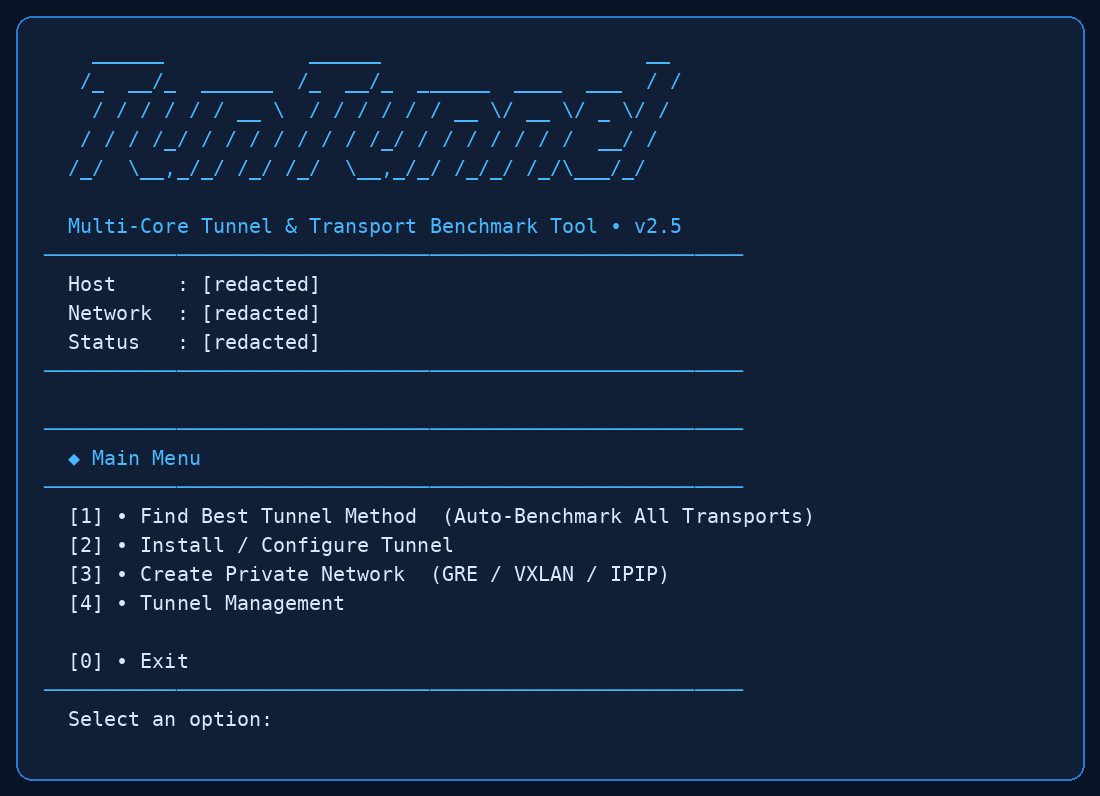
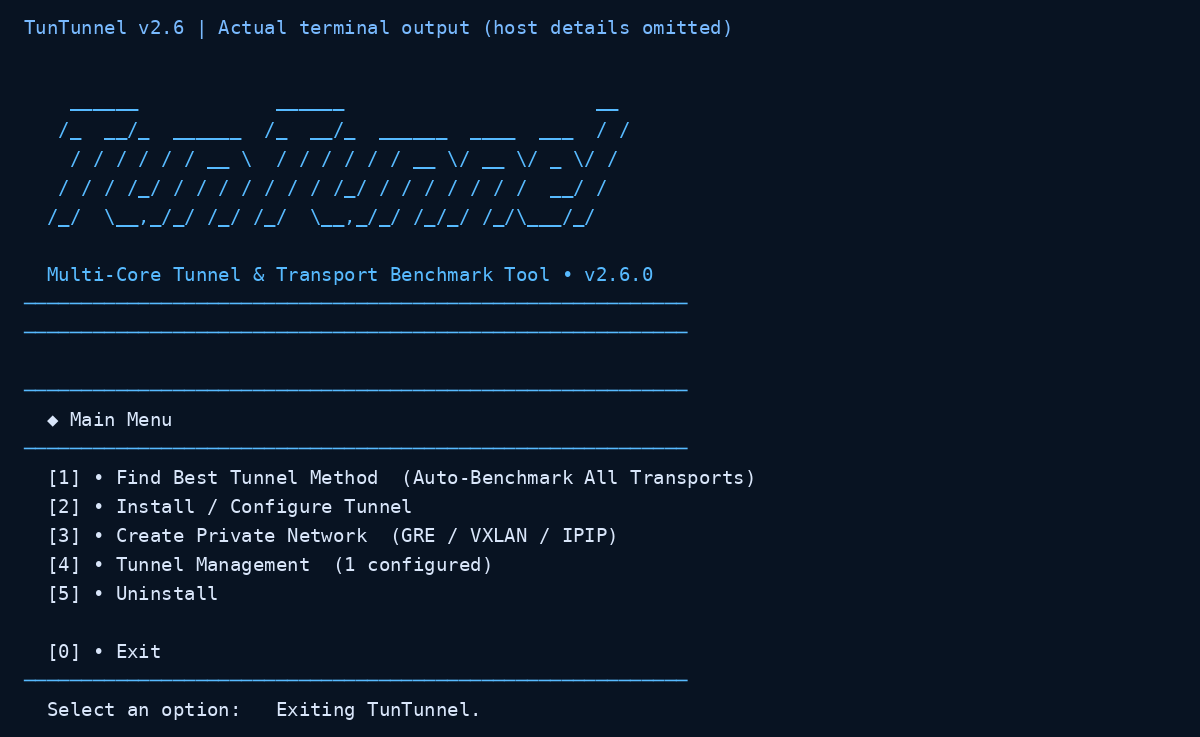
Add confirmed uninstall, managed network menu and Linux release build

diff --git a/test_uninstall.py b/test_uninstall.py
@@ -1,0 +1,71 @@
+"""Run: python3 test_uninstall.py. All paths and service calls are sandboxed."""
+import contextlib
+import io
+from pathlib import Path
+import subprocess
+import tarfile
+import tempfile
+
+source = Path(__file__).with_name('tunnel-extra.sh').read_text()
+body = source.split("<<'__TUNNEL_EXTRA_PY__'\n", 1)[1].rsplit('\n__TUNNEL_EXTRA_PY__', 1)[0]
+for answer, failure in [('no', ''), ('UNINSTALL', 'backup'), ('UNINSTALL', 'service'), ('UNINSTALL', '')]:
+    ns = {'__name__': 'test'}
+    exec(compile(body, 'tunnel-extra.sh', 'exec'), ns)
+    with tempfile.TemporaryDirectory() as temp, contextlib.redirect_stdout(io.StringIO()):
+        base = Path(temp)
+        sandbox = lambda p: base / str(p).lstrip('/')
+        ns.update(ROOT=sandbox('/etc/tunnel-extra'), BIN=sandbox('/opt/tunnel-extra/bin'),
+                  SELF=sandbox('/usr/local/lib/tunnel-extra/tunnel-extra.sh'), UNITS=sandbox('/etc/systemd/system'))
+        ns['Path'] = sandbox
+        ns['root_required'] = lambda: None
+        ns['prompt'] = lambda *a: answer
+        data = {'name': 'test', 'carrier': 'gre'}
+        ns['all_tunnels'] = lambda: [data]
+        ns['saved_networks'] = lambda: [data]
+        ns['device'] = lambda d: 'te-test'
+        for p in [ns['ROOT'], ns['BIN'], ns['SELF'].parent, ns['UNITS'], sandbox('/usr/local/bin')]:
+            p.mkdir(parents=True, exist_ok=True)
+        ns['SELF'].write_text('source')
+        ns['ROOT'].joinpath('config.json').write_text('private')
+        units = [ns['UNITS'] / 'tunnel-extra-test.service', ns['UNITS'] / 'tunnel-extra-refresh.timer']
+        for u in units:
+            u.write_text('owned')
+        unrelated = ns['UNITS'] / 'unrelated.service'
+        unrelated.write_text('preserve')
+        shared = sandbox('/usr/local/bin/sing-box')
+        shared.write_text('shared')
+        alias = sandbox('/usr/local/bin/tuntunnel')
+        alias.symlink_to(ns['SELF'])
+        calls = []
+        def run(argv, **kwargs):
+            calls.append(argv)
+            if failure == 'service' and argv[0] == 'systemctl':
+                raise RuntimeError('stop failed')
+            return subprocess.CompletedProcess(argv, 0)
+        ns['run'] = run
+        if failure == 'backup':
+            original_open = ns['tarfile'].open
+            ns['tarfile'].open = lambda *a, **k: (_ for _ in ()).throw(OSError('backup failed'))
+        try:
+            result = ns['uninstall']()
+            assert not failure
+        except (OSError, RuntimeError):
+            assert failure
+        finally:
+            if failure == 'backup':
+                ns['tarfile'].open = original_open
+        assert unrelated.exists() and shared.exists()
+        if answer != 'UNINSTALL' or failure:
+            assert ns['ROOT'].exists() and alias.is_symlink() and all(u.exists() for u in units)
+            if failure != 'service':
+                assert not calls
+        else:
+            assert result and not ns['ROOT'].exists() and not ns['BIN'].parent.exists()
+            assert not ns['SELF'].exists() and not alias.is_symlink()
+            assert not any(u.exists() for u in units)
+            backups = list(sandbox('/var/backups/tuntunnel').glob('*.tar.gz'))
+            assert len(backups) == 1 and backups[0].stat().st_mode & 0o777 == 0o600
+            with tarfile.open(backups[0]) as archive:
+                assert any(m.name.endswith('config.json') for m in archive.getmembers())
+print('PASS: uninstall cancel, backup failure, service failure, confirmed cleanup; shared files preserved')
+

diff --git a/test_networks.py b/test_networks.py
@@ -1,0 +1,77 @@
+"""Run: python3 test_networks.py (no real interfaces or services changed)."""
+import contextlib
+import io
+import json
+from pathlib import Path
+import subprocess
+import tempfile
+from unittest.mock import patch
+
+source = Path(__file__).with_name('tunnel-extra.sh').read_text()
+python = source.split("<<'__TUNNEL_EXTRA_PY__'\n", 1)[1].rsplit('\n__TUNNEL_EXTRA_PY__', 1)[0]
+ns = {'__name__': 'tuntunnel_test'}
+exec(compile(python, 'tunnel-extra.sh', 'exec'), ns)
+
+with tempfile.TemporaryDirectory() as temp, contextlib.redirect_stdout(io.StringIO()) as output:
+    ns['ROOT'] = Path(temp)
+    calls = []
+    present = set()
+
+    def run(args, check=True, **kwargs):
+        calls.append(args)
+        if args[:3] == ['ip', 'link', 'show']:
+            return subprocess.CompletedProcess(args, 0 if args[-1] in present else 1)
+        if args[:3] == ['ip', 'link', 'del']:
+            present.discard(args[-1])
+        return subprocess.CompletedProcess(args, 0)
+
+    def apply(data, role, up=True):
+        present.add(ns['device'](data))
+
+    ns.update(run=run, root_required=lambda: None, link_commands=lambda d, r: [], link_action=apply)
+    for carrier in ('gre', 'vxlan', 'ipip'):
+        name = 'test-' + carrier
+        answers = iter([carrier, 'iran', name, '192.0.2.1', '198.51.100.2', '10.203.88.0/30', '100'] + (['4789'] if carrier == 'vxlan' else []) + ['yes'])
+        with patch('builtins.input', side_effect=lambda _: next(answers)):
+            ns['create_network_wizard']()
+        record = Path(temp) / 'networks' / (name + '.json')
+        data = json.loads(record.read_text())
+        assert data['carrier'] == carrier and 'secret' not in data
+        assert data in ns['list_networks']()
+        # A cancelled delete must preserve both interface and record.
+        with patch('builtins.input', side_effect=[name, 'no']):
+            ns['delete_network']()
+        assert record.exists() and ns['device'](data) in present
+        # Configured tunnels must block deletion of their carrier.
+        ns['all_tunnels'] = lambda: [data]
+        with patch('builtins.input', side_effect=[name]):
+            try:
+                ns['delete_network']()
+            except RuntimeError as exc:
+                assert 'used by' in str(exc)
+            else:
+                raise AssertionError('Deleted network used by tunnel')
+        ns['all_tunnels'] = lambda: []
+        # A failed link deletion must retain tracking metadata.
+        real_run = ns['run']
+        def fail_delete(args, **kwargs):
+            if args[:3] == ['ip', 'link', 'del']:
+                raise RuntimeError('delete failed')
+            return real_run(args, **kwargs)
+        ns['run'] = fail_delete
+        with patch('builtins.input', side_effect=[name, 'yes']):
+            try:
+                ns['delete_network']()
+            except RuntimeError:
+                pass
+            else:
+                raise AssertionError('Deletion failure ignored')
+        assert record.exists()
+        ns['run'] = real_run
+        with patch('builtins.input', side_effect=[name, 'yes']):
+            ns['delete_network']()
+        assert not record.exists() and ns['device'](data) not in present
+    assert not ns['saved_networks']()
+    assert all(c[0] == 'ip' for c in calls)
+    assert 'Deletion cancelled.' in output.getvalue()
+print('PASS: GRE/VXLAN/IPIP create, list, cancel, dependency guard, failure retention, delete; no live changes')

diff --git a/build_binary.py b/build_binary.py
@@ -1,0 +1,59 @@
+"""Build Linux native launcher embedding the current Python manager; needs gcc and Python 3 at runtime."""
+from pathlib import Path
+import subprocess
+import platform
+
+if platform.system() != 'Linux' or platform.machine() != 'x86_64':
+    raise SystemExit('Build this amd64 artifact on Linux x86-64.')
+
+root = Path(__file__).resolve().parent
+script = (root / 'tunnel-extra.sh').read_text()
+body = script.split("<<'__TUNNEL_EXTRA_PY__'\n", 1)[1].rsplit('\n__TUNNEL_EXTRA_PY__', 1)[0]
+body = "import os\n__file__ = os.environ['TE_SOURCE']\n" + body
+payload = ','.join(str(b) for b in body.encode())
+build = root / 'build'
+build.mkdir(exist_ok=True)
+c = build / 'launcher.c'
+c.write_text('''#define _GNU_SOURCE
+#include <sys/mman.h>
+#include <unistd.h>
+#include <stdlib.h>
+#include <stdio.h>
+#include <limits.h>
+#include <errno.h>
+#include <fcntl.h>
+static const unsigned char script[] = {''' + payload + '''};
+int main(int argc, char **argv) {
+    char self[PATH_MAX], path[64];
+    ssize_t n = readlink("/proc/self/exe", self, sizeof(self)-1);
+    if (n < 0) { perror("readlink"); return 1; }
+    self[n] = 0;
+    if (setenv("TE_SOURCE", self, 1)) { perror("setenv"); return 1; }
+    int fd = memfd_create("tuntunnel", 0);
+    if (fd < 0) { perror("memfd_create"); return 1; }
+    int source = fcntl(fd, F_DUPFD, 4);
+    if (source < 0) { perror("fcntl"); return 1; }
+    close(fd);
+    fd = source;
+    if (dup2(STDIN_FILENO, 3) < 0) { perror("dup2"); return 1; }
+    size_t offset = 0;
+    while (offset < sizeof(script)) {
+        ssize_t written = write(fd, script + offset, sizeof(script) - offset);
+        if (written < 0 && errno == EINTR) continue;
+        if (written <= 0) { perror("write"); return 1; }
+        offset += written;
+    }
+    if (lseek(fd, 0, SEEK_SET) < 0) { perror("lseek"); return 1; }
+    snprintf(path, sizeof(path), "/proc/self/fd/%d", fd);
+    char **args = calloc(argc + 2, sizeof(char *));
+    if (!args) { perror("calloc"); return 1; }
+    args[0] = "python3";
+    args[1] = path;
+    for (int i = 1; i < argc; ++i) args[i+1] = argv[i];
+    execvp(args[0], args);
+    perror("Python 3 is required");
+    return 1;
+}
+''')
+subprocess.run(['gcc', '-Os', '-s', '-Wall', '-Wextra', '-Werror', '-o', str(build / 'tuntunnel-linux-amd64'), str(c)], check=True)
+print(build / 'tuntunnel-linux-amd64')

diff --git a/README.md b/README.md
@@ -23,10 +23,53 @@ A Linux terminal tool for configuring tunnels, private network carriers, and com
 | --- | --- |
 | Find Best Tunnel Method | Compare available tunnel transports between two servers. |
 | Install / Configure Tunnel | Create a tunnel or join using a setup link. |
-| Create Private Network | Configure GRE, VXLAN, or IPIP carrier networks. |
+| Create Private Network | Create GRE, VXLAN, or IPIP networks; list and delete networks tracked by this script. |
 | Tunnel Management | View and manage configured tunnels. |
+| Uninstall | Confirm removal of TunTunnel from this host after a verified local backup. |
+
+### Private network management (option 3)
+
+- Options 1–3 create GRE, VXLAN, or IPIP networks.
+- **List Networks** shows saved names, types, interfaces, subnets, and whether each interface is present on this host.
+- **Delete Network** asks for confirmation and removes only the selected local network. The peer host is unchanged. Networks used by configured tunnels cannot be deleted here.
+- Applied networks are tracked under `/etc/tunnel-extra/networks/`. Networks created before tracking was added are not included; unrelated interfaces are never imported automatically.
 
 ## Requirements
+
+### Uninstall (main menu option 5)
+
+Type `UNINSTALL` when prompted. This stops TunTunnel services, removes tracked local interfaces, and removes its configuration, private engine directory, launcher and command aliases. The peer host and shared engines in `/usr/local/bin` are unchanged. A private archive is verified first under `/var/backups/tuntunnel/`; it contains credentials, so keep it secure. If backup or service shutdown fails, file removal is aborted. Interfaces created before network tracking was introduced cannot be identified automatically.
+
+### Native Linux release
+
+Download `tuntunnel-linux-amd64` and `SHA256SUMS` from [Releases](https://github.com/mahdiweb3/tuntunnel/releases/latest). This is a native x86-64 Linux ELF launcher embedding the same manager. It requires **Python 3**, glibc 2.34 or newer, and the normal system tools listed below; it is not a bundled Python runtime. The embedded code runs from memory, not `/tmp`.
+
+```bash
+sha256sum --ignore-missing -c SHA256SUMS
+chmod 755 tuntunnel-linux-amd64
+./tuntunnel-linux-amd64
+```
+
+To install this binary permanently, as root:
+
+```bash
+install -d -m 755 /usr/local/lib/tunnel-extra /usr/local/bin
+install -m 755 tuntunnel-linux-amd64 /usr/local/lib/tunnel-extra/tunnel-extra.sh
+ln -sfn /usr/local/lib/tunnel-extra/tunnel-extra.sh /usr/local/bin/tuntunnel
+tuntunnel
+```
+
+The `.sh` filename is retained for compatibility with existing service paths; its contents may be either the Bash script or the ELF binary. Choose one installation method. Running the source installer later replaces the binary with the script.
+
+Build and run regression checks from source:
+
+```bash
+python3 build_binary.py
+python3 test_networks.py
+python3 test_uninstall.py
+```
+
+Building needs GCC on Linux x86-64. All deletion and interface tests use sandbox paths and mocked service calls; tests do not uninstall a live server.
 
 | Requirement | Details |
 | --- | --- |
